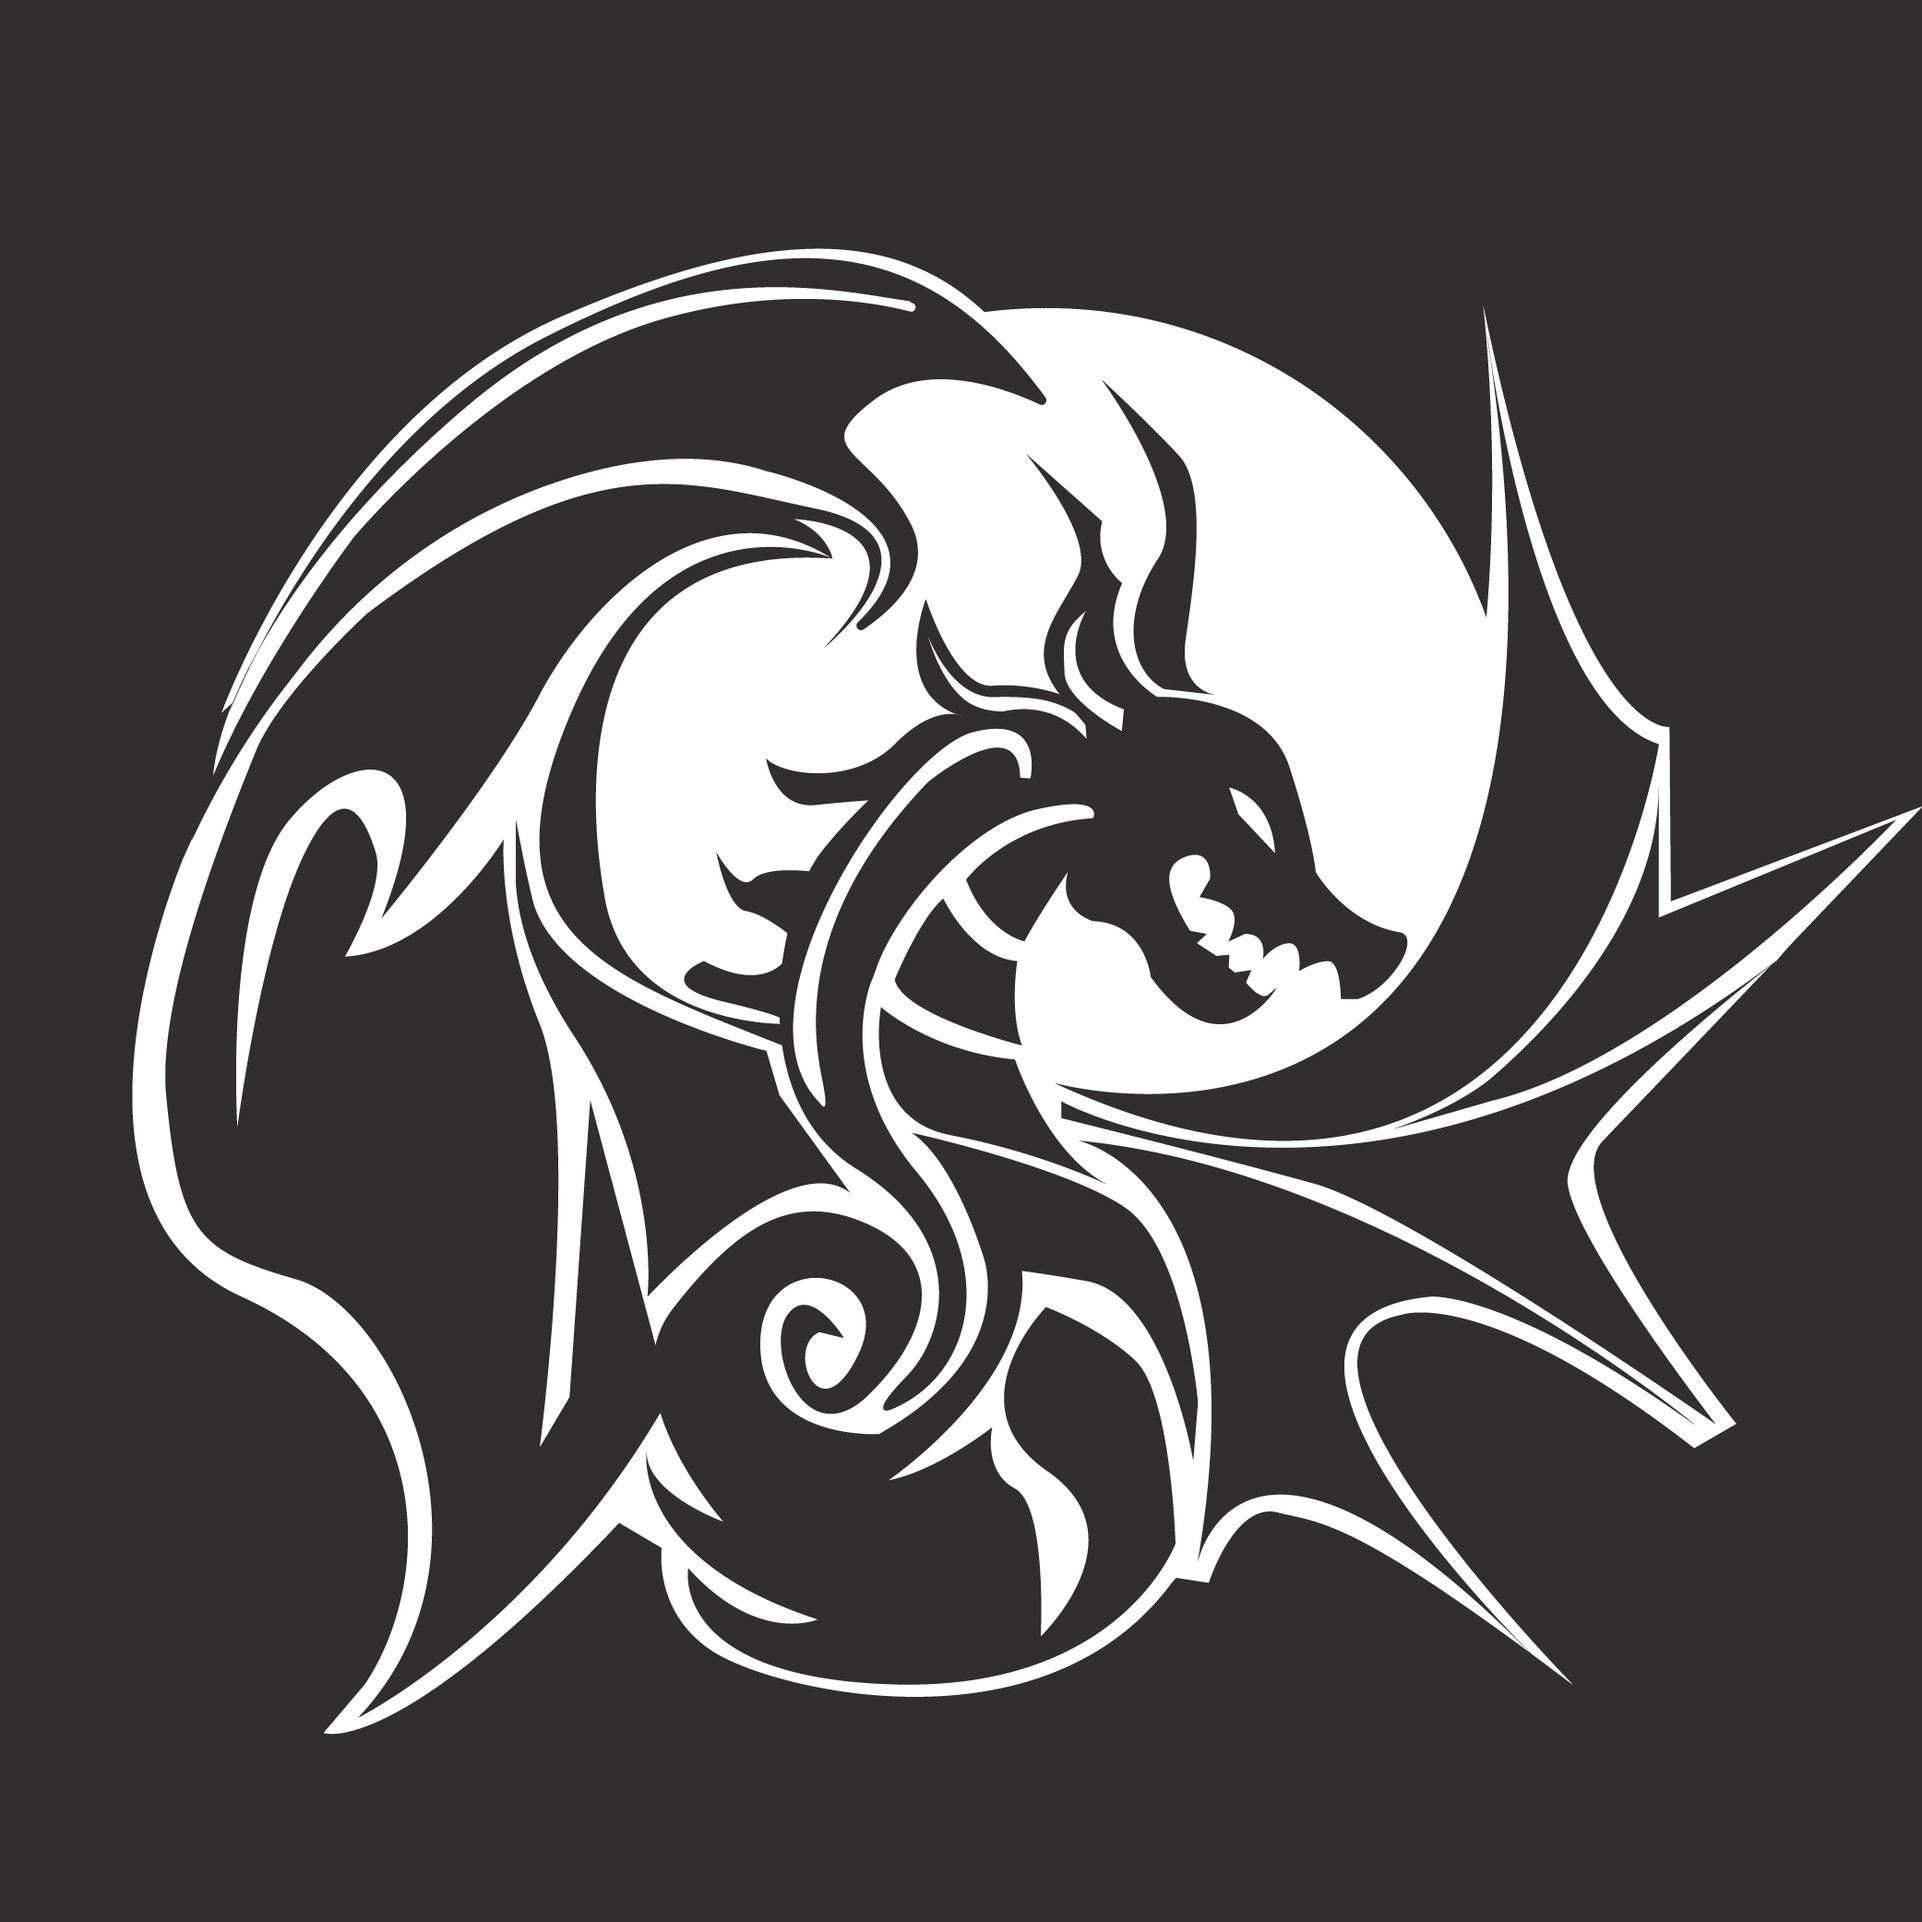
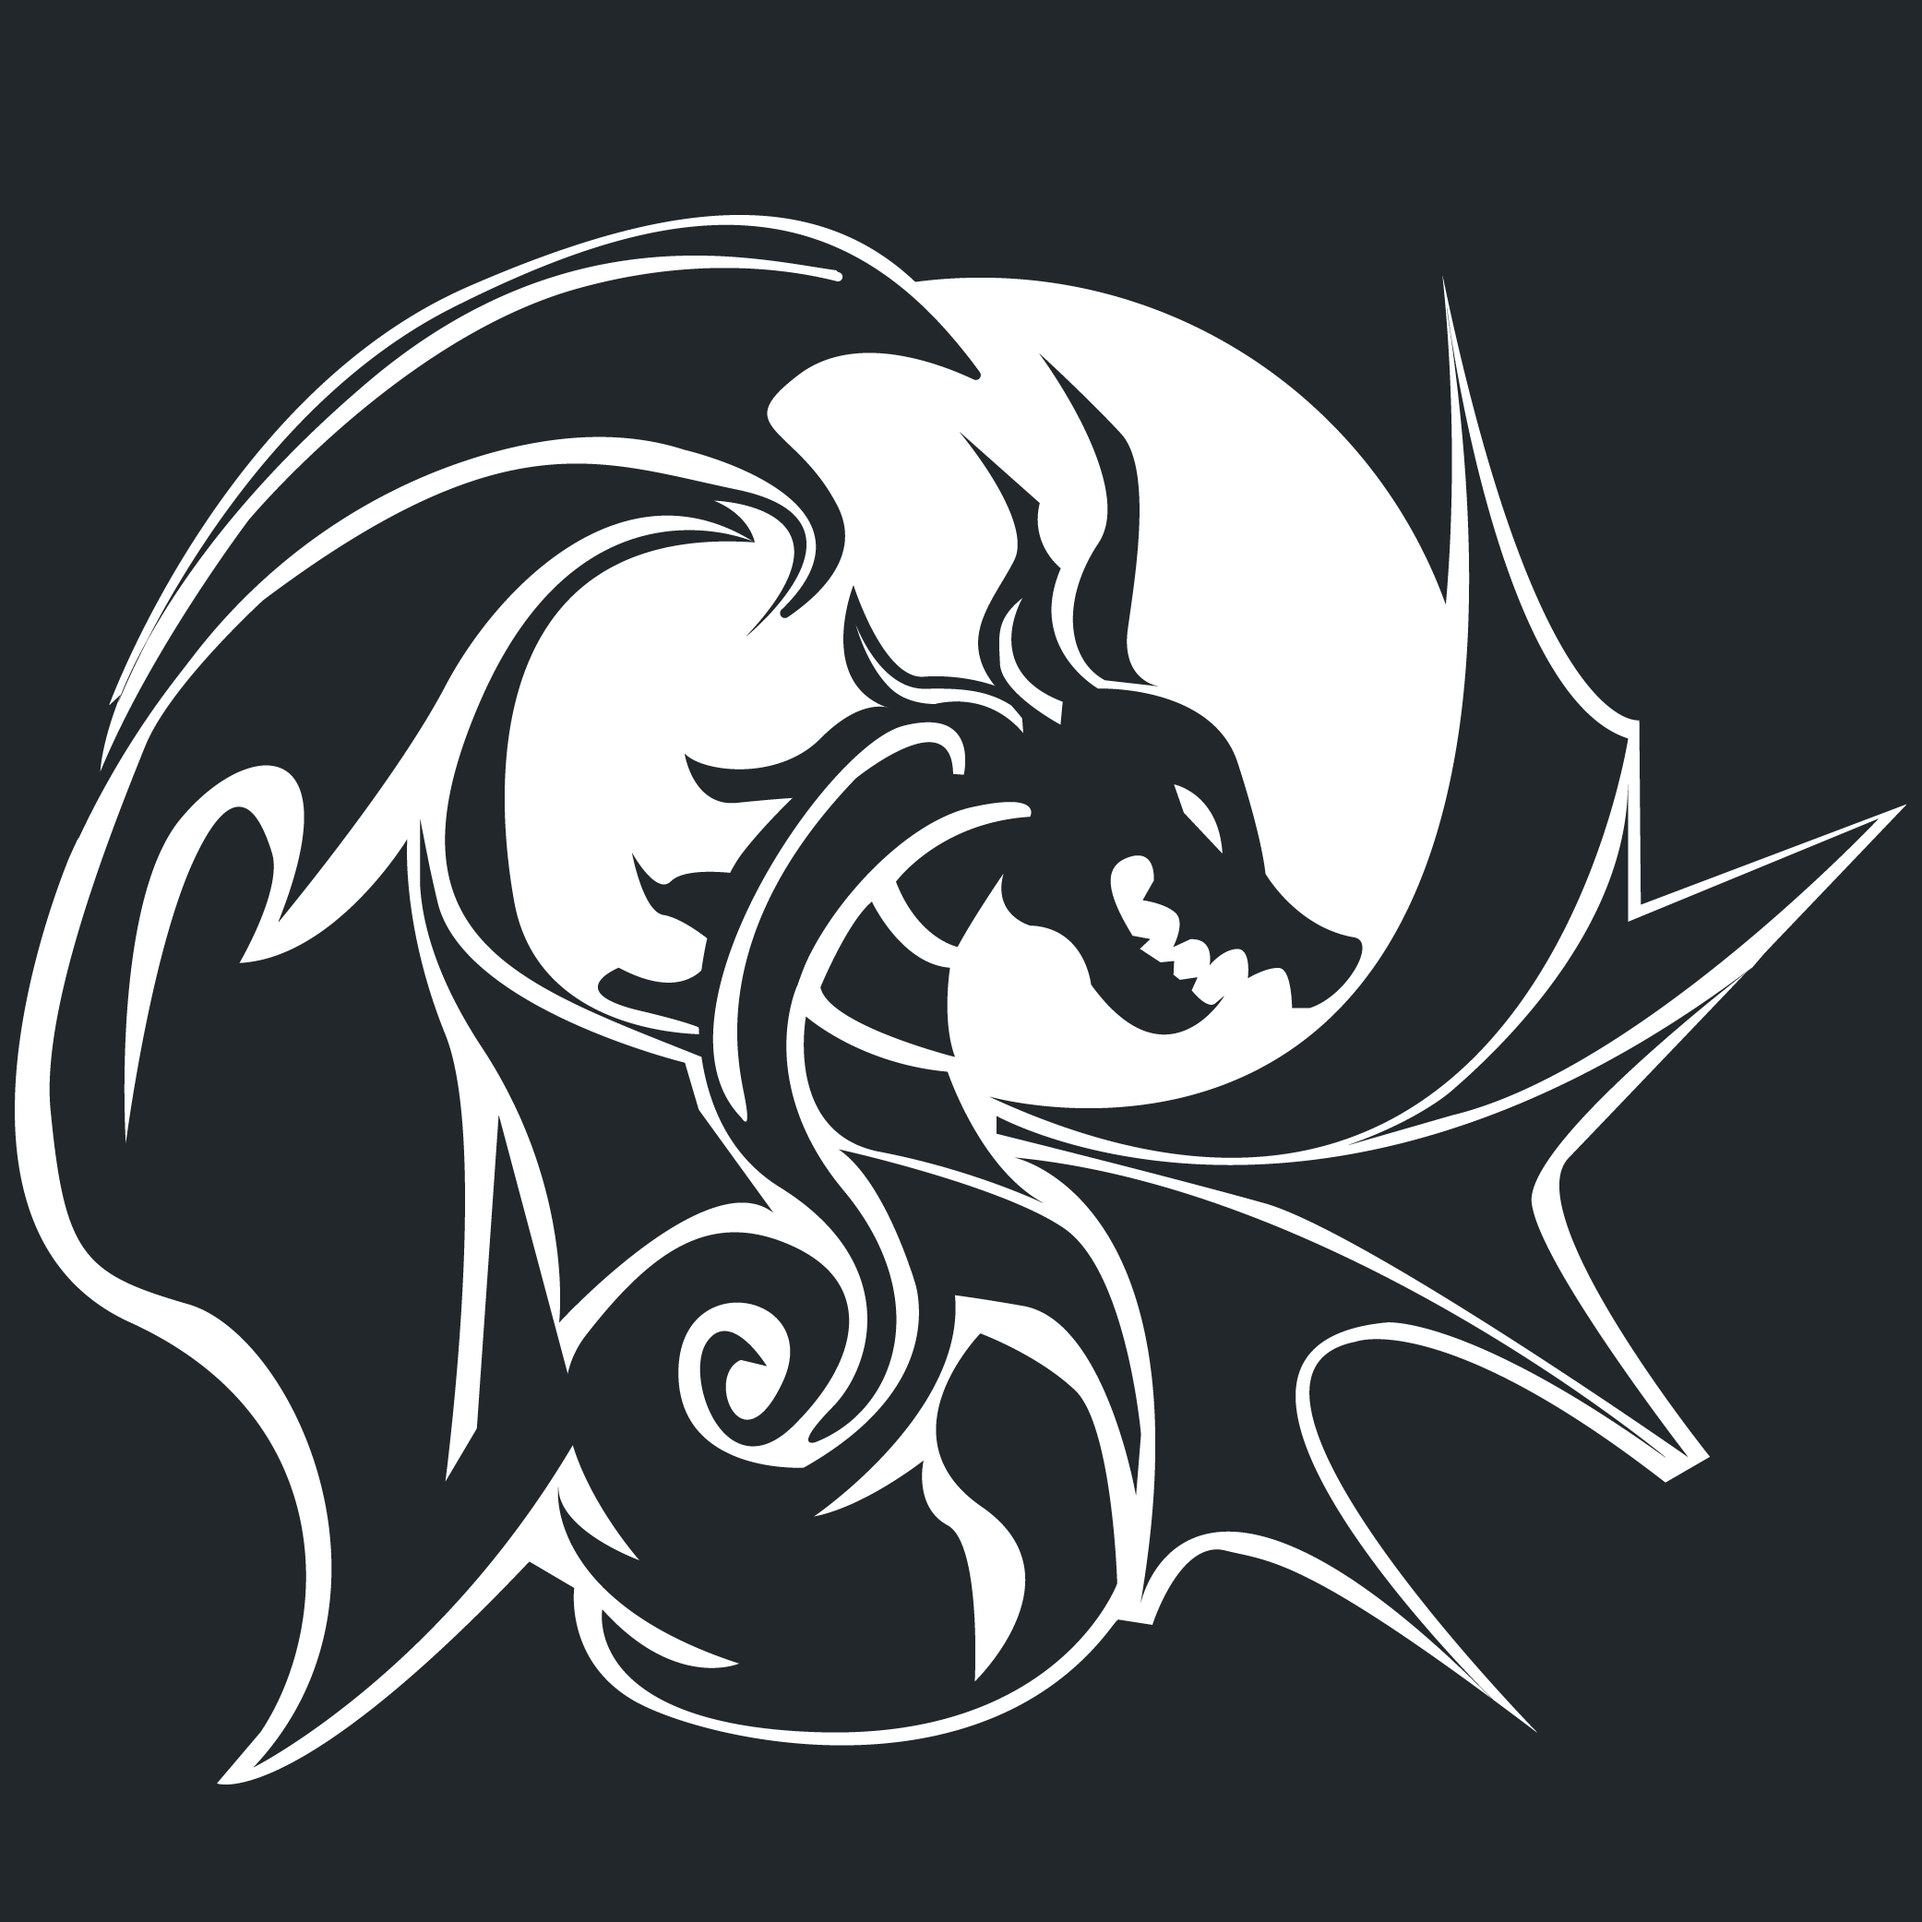
Changed colors

Changed region(s): [[0.0, 0.0936, 0.9986, 0.9361], [0.6553, 0.1872, 0.6865, 0.2184]]

diff --git a/assets/css/style.css b/assets/css/style.css
@@ -29,7 +29,7 @@ ul {
     padding: 0;
     width: 100%;
     list-style-type: none;
-    background-color: white;
+    background-color: #384b54;
     z-index: 9999;
     box-shadow: 0.5px 0.5px #302e2e;
 }
@@ -38,11 +38,11 @@ ul {
     float: left;
     font-size: 16px;
     display: block;
-    color: black;
     text-align: center;
     padding: 12px 16px;
     text-decoration: none;
     z-index: 999;
+    color: white;
 }
 
 li {
@@ -53,7 +53,7 @@ li a {
     font-size: 12px;
     font-family: Proza Libre;
     display: block;
-    color: black;
+    color: white;
     text-align: center;
     padding: 12px 16px;
     text-decoration: none;
@@ -76,8 +76,7 @@ li a:hover {
 }
 
 #title-bar {
-    top: -2%;
-    background-color: rgba(48, 46, 46, 1);
+    background-color: #0B1E2E;
     position: relative;
     width: 100%;
     height: 20%;
@@ -99,8 +98,11 @@ li a:hover {
 }
 
 #campaign {
+    position: relative;
+    background-color: #B55035;
     height: 790px;
     text-align: center;
+    color: white;
 }
 
 #campaign-title {
@@ -108,12 +110,10 @@ li a:hover {
     text-align: center;
     position: relative;
     font-size: 50px;
-    color: #302e2e;
 }
 
 #campaign-description {
     padding-top: 20px;
-    color: #302e2e;
     font-family: Proza Libre;
     position: relative;
     margin: 0 auto;
@@ -123,7 +123,7 @@ li a:hover {
 }
 
 #bestiary {
-    background-color: #302e2e;
+    background-color: #21272B;
     height: 820px;
 }
 
@@ -163,10 +163,6 @@ li a:hover {
     height: 100%;
 }
 
-.beast img:hover {
-    cursor: hand;
-}
-
 #overlay {
     width: 137px;
     height: 137px;
@@ -178,6 +174,7 @@ li a:hover {
 
 .beast:hover #overlay {
     opacity: 1;
+    cursor: hand;
 }
 
 #word { 
@@ -202,7 +199,9 @@ li a:hover {
 }
 
 #affinity {
-    height: 790px;
+    color: white;
+    background-color: #6389A6;
+    height: 900px;
 }
 
 #affinity-title {
@@ -210,12 +209,10 @@ li a:hover {
     text-align: center;
     position: relative;
     font-size: 50px;
-    color: #302e2e;
 }
 
 #affinity-description {
     padding-top: 20px;
-    color: #302e2e;
     font-family: Proza Libre;
     position: relative;
     margin: 0 auto;

diff --git a/index.html b/index.html
@@ -195,9 +195,9 @@
         <div class="wow bounceInLeft" id = "affinity-title"> Affinity </div>
         <div class = "wow bounceInUp" id = "affinity-description">
         This world is all about the creatures of this land. When two creatures bond a special connection is created. That connection is called an AFFINITY, a powerful bond that allows each of you to draw strength from one another. When bonding, you have access to the creature’s physical and spiritual powers. You can summon it to fight or use its talents for other purposes as well. The stronger the bond, the stronger you both become. However, bonding is a two-way relationship. If you and your creature have an unstable relationship it will have a dire effect on your sanity and powers. You can have more than one affinity, however the more creatures you bond with, the weaker your bonds become since your loyalty becomes divided. Affinity can be used for power, for enlightenment, or for love. You can only bond with an unbonded creature. So whoever you choose to have an affinity towards, remember to choose well.
-        <p>You can go through the entire campaign without bonding with a creature, however you will be significantly less cool and less likely to do cool things. You may have an affinity towards more than one creature, however the more creatures you bond with, the weaker your bonds become since your loyalty becomes divided. 
+        <p>You can go through the entire campaign without bonding with a creature, however you will be significantly less cool and less likely to do cool things. You may have an affinity towards more than one creature, however the more creatures you bond with, the weaker your bonds become since your loyalty becomes divided.</p>
+        </div>
     </div>
-
     </body>
 </html>
 

diff --git a/assets/js/script.js b/assets/js/script.js
@@ -15,8 +15,13 @@ function scroll(href) {
 // var scroll_pos = 0;
 // $(document).scroll(function() { 
 //  	scroll_pos = $(this).scrollTop();
-//     if ((scroll_pos > 300) && (scroll_pos < 400)) {
-//     	$("#bestiary").css('background-color', '#7ea3e7');
+//     if (scroll_pos > 200) {
+//     	$("ul").css('background-color', '#302e2e');
+//     	$("li a").css('color', 'white');
+//     } else {
+//      	$("ul").css('background-color', '#ffff');
+//     	$("li a").css('color', '#302e2e');
+//       	$("#logo").css('color', '#302e2e');
 //     }
 //  });
 
